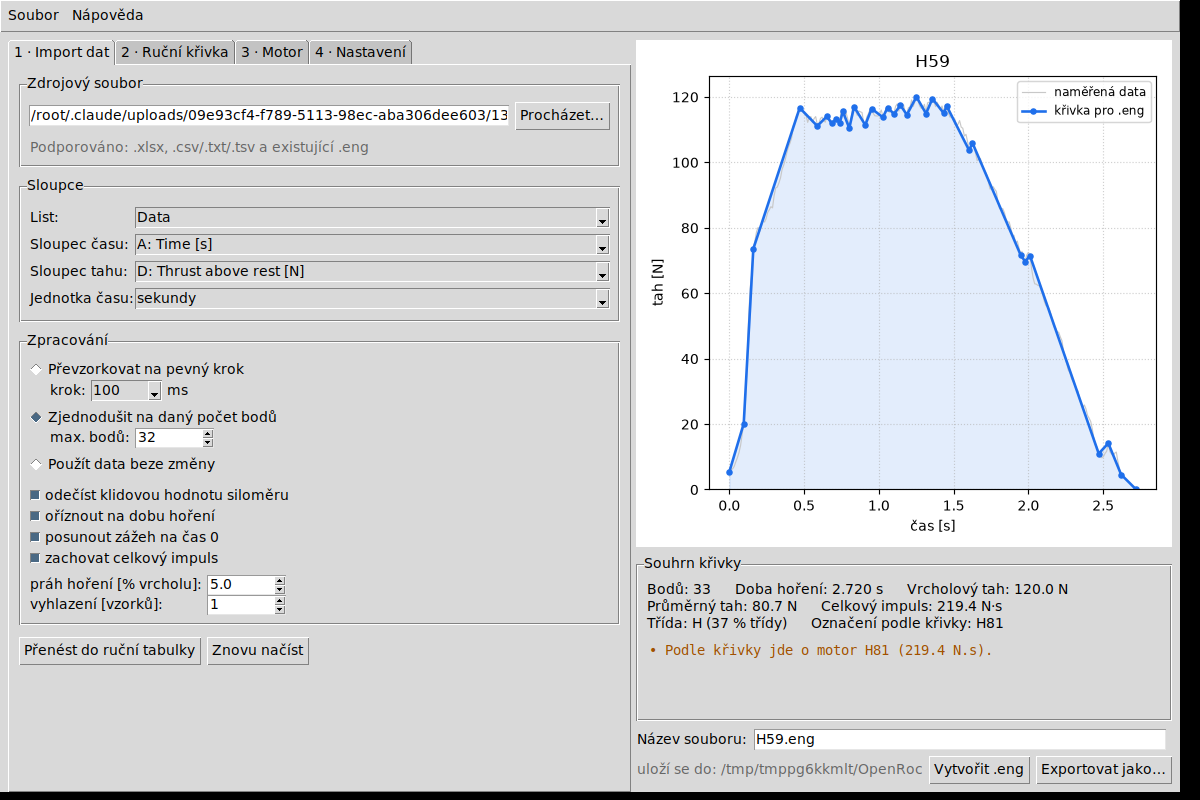
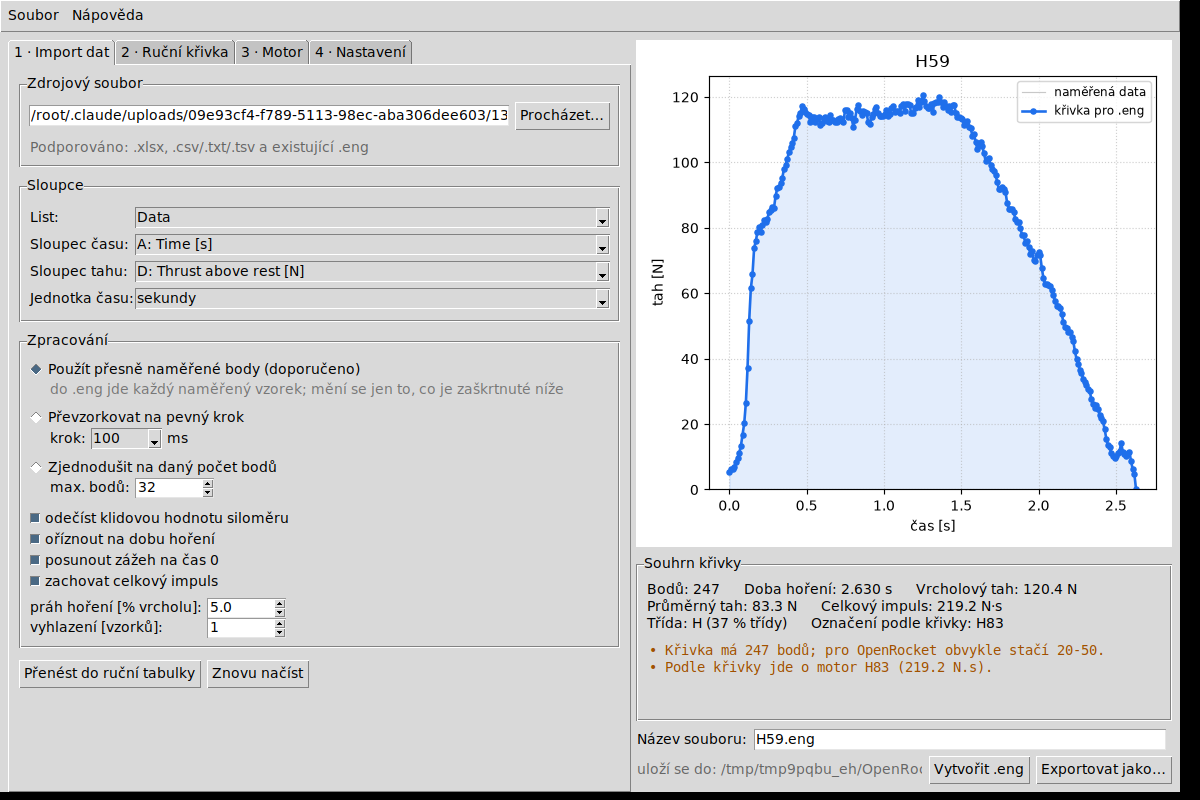
Import bere naměřené body přesně, krokování zůstává pro ruční kreslení
Výchozí režim zpracování je nyní "Použít přesně naměřené body" - do .eng jde
každý naměřený vzorek se svým časem. Převzorkování na pevný krok 100-1000 ms
a redukce počtu bodů zůstávají jako volitelné možnosti.

- koncový nulový bod u nedotčených dat navazuje vzorkovacím rozestupem,
  ne krokem převzorkování
- přenos do ruční tabulky už nepřepisuje zvolený krok mřížky
- varování o počtu bodů až od 1000 bodů, aby přesný import nehlásil problém
- test, že režim bez převzorkování zachová všechny vzorky

Claude-Session: https://claude.ai/code/session_01QgQ7U8bfPUp1pCxR3vXueB

diff --git a/engine_generator/gui.py b/engine_generator/gui.py
@@ -58,7 +58,7 @@ class App(tk.Tk):
         self.var_thrust_col = tk.StringVar()
         self.var_time_unit = tk.StringVar(value="sekundy")
 
-        self.var_mode = tk.StringVar(value="step")
+        self.var_mode = tk.StringVar(value="raw")
         self.var_step = tk.IntVar(value=int(self.cfg["step_ms"]))
         self.var_max_points = tk.IntVar(value=32)
         self.var_threshold = tk.DoubleVar(value=5.0)
@@ -190,11 +190,17 @@ class App(tk.Tk):
         body = ttk.Frame(options)
         body.pack(fill="x", padx=8, pady=8)
 
-        ttk.Radiobutton(body, text="Převzorkovat na pevný krok", value="step",
+        ttk.Radiobutton(body, text="Použít přesně naměřené body (doporučeno)", value="raw",
                         variable=self.var_mode, command=self._on_process_change).grid(
                             row=0, column=0, columnspan=2, sticky="w")
+        ttk.Label(body, text="do .eng jde každý naměřený vzorek; mění se jen to, co je zaškrtnuté níže",
+                  foreground="#777777").grid(row=1, column=0, columnspan=2, sticky="w", padx=(20, 0))
+
+        ttk.Radiobutton(body, text="Převzorkovat na pevný krok", value="step",
+                        variable=self.var_mode, command=self._on_process_change).grid(
+                            row=2, column=0, columnspan=2, sticky="w", pady=(8, 0))
         step_row = ttk.Frame(body)
-        step_row.grid(row=1, column=0, columnspan=2, sticky="w", padx=(20, 0))
+        step_row.grid(row=3, column=0, columnspan=2, sticky="w", padx=(20, 0))
         ttk.Label(step_row, text="krok:").pack(side="left")
         step_combo = ttk.Combobox(step_row, textvariable=self.var_step, width=6, state="readonly",
                                   values=curve.STEP_CHOICES_MS)
@@ -204,21 +210,17 @@ class App(tk.Tk):
 
         ttk.Radiobutton(body, text="Zjednodušit na daný počet bodů", value="reduce",
                         variable=self.var_mode, command=self._on_process_change).grid(
-                            row=2, column=0, columnspan=2, sticky="w", pady=(6, 0))
+                            row=4, column=0, columnspan=2, sticky="w", pady=(8, 0))
         points_row = ttk.Frame(body)
-        points_row.grid(row=3, column=0, columnspan=2, sticky="w", padx=(20, 0))
+        points_row.grid(row=5, column=0, columnspan=2, sticky="w", padx=(20, 0))
         ttk.Label(points_row, text="max. bodů:").pack(side="left")
         spin = ttk.Spinbox(points_row, from_=4, to=200, textvariable=self.var_max_points, width=6,
                            command=self._on_process_change)
         spin.pack(side="left", padx=4)
         spin.bind("<Return>", self._on_process_change)
 
-        ttk.Radiobutton(body, text="Použít data beze změny", value="raw",
-                        variable=self.var_mode, command=self._on_process_change).grid(
-                            row=4, column=0, columnspan=2, sticky="w", pady=(6, 0))
-
         extra = ttk.Frame(body)
-        extra.grid(row=5, column=0, columnspan=2, sticky="ew", pady=(10, 0))
+        extra.grid(row=6, column=0, columnspan=2, sticky="ew", pady=(10, 0))
         ttk.Checkbutton(extra, text="odečíst klidovou hodnotu siloměru", variable=self.var_baseline,
                         command=self._on_process_change).grid(row=0, column=0, columnspan=3, sticky="w")
         ttk.Checkbutton(extra, text="oříznout na dobu hoření", variable=self.var_trim,
@@ -526,7 +528,6 @@ class App(tk.Tk):
         if not self.points:
             messagebox.showinfo("Není co přenést", "Nejprve načtěte data.", parent=self)
             return
-        self.var_manual_step.set(int(self.var_step.get() or 100))
         self.var_manual_duration.set(round(self.points[-1][0], 3))
         self._fill_table()
         self.var_status.set("Křivka je v ruční tabulce, můžete ji upravit.")

diff --git a/engine_generator/curve.py b/engine_generator/curve.py
@@ -220,10 +220,20 @@ def process(series: Sequence[Point], options: ProcessOptions) -> List[Point]:
     if data and data[0][0] > 0:
         data.insert(0, (0.0, 0.0 if options.end_with_zero else data[0][1]))
     if options.end_with_zero and data and data[-1][1] != 0.0:
-        data.append((round(data[-1][0] + options.step_ms / 1000.0, 6), 0.0))
+        # Dohoření navazuje krokem podle režimu: u nedotčených dat vzorkovacím,
+        # u převzorkování zvoleným.
+        gap = options.step_ms / 1000.0 if options.mode == "step" else _last_gap(data)
+        data.append((round(data[-1][0] + gap, 6), 0.0))
     elif options.end_with_zero and data:
         data[-1] = (data[-1][0], 0.0)
     return [(round(t, 6), round(f, 4)) for t, f in data]
+
+
+def _last_gap(series: Sequence[Point], fallback: float = 0.01) -> float:
+    """Rozestup posledních dvou vzorků - pro doplnění koncového nulového bodu."""
+    if len(series) < 2:
+        return fallback
+    return max(series[-1][0] - series[-2][0], 1e-4)
 
 
 def _impulse(series: Sequence[Point]) -> float:

diff --git a/tests/test_core.py b/tests/test_core.py
@@ -129,6 +129,19 @@ class CurveTest(unittest.TestCase):
         self.assertLess(engfile.burn_time(points), 1.5)
         self.assertAlmostEqual(engfile.peak_thrust(points), 100.0, delta=0.1)
 
+    def test_raw_mode_keeps_every_sample(self):
+        raw = self.synthetic()
+        points = curve.process(raw, curve.ProcessOptions(mode="raw", trim_to_burn=False,
+                                                         subtract_baseline=False,
+                                                         shift_to_zero=False))
+        # Žádné převzorkování: časy odpovídají vzorkům ze zdroje.
+        source_times = [round(t, 6) for t, _ in raw]
+        for time_s, _thrust in points:
+            if time_s in source_times:
+                continue
+            self.assertGreater(time_s, source_times[-1])  # jen doplněná koncová nula
+        self.assertGreaterEqual(len(points), len(raw))
+
     def test_make_grid(self):
         grid = curve.make_grid(500, 2.0)
         self.assertEqual([t for t, _ in grid], [0.0, 0.5, 1.0, 1.5, 2.0])

diff --git a/engine_generator/engfile.py b/engine_generator/engfile.py
@@ -263,8 +263,8 @@ def validate(spec: MotorSpec, points: Sequence[Point]) -> Tuple[List[str], List[
         warnings.append("Poslední bod křivky nemá nulový tah - OpenRocket to očekává.")
     if times[0] > 0 and points[0][1] > 0:
         warnings.append("Křivka nezačíná v nule; přidejte bod (0 s; 0 N).")
-    if len(points) > 200:
-        warnings.append("Křivka má %d bodů; pro OpenRocket obvykle stačí 20-50." % len(points))
+    if len(points) > 1000:
+        warnings.append("Křivka má %d bodů; zvažte převzorkování, soubor bude velký." % len(points))
 
     impulse = total_impulse(points)
     if impulse > 0:

diff --git a/README.md b/README.md
@@ -14,10 +14,13 @@ statického testu nebo z ručně zadané tahové křivky vytvoří motorový sou
 * **Zpracování surového záznamu**: odečtení klidové hodnoty siloměru, ořez na dobu
   hoření (práh v % vrcholu, krátké špičky ze zážehové linky se ignorují), posun
   zážehu na čas 0, vyhlazení a dorovnání celkového impulsu.
-* **Převzorkování po pevných krocích** 100, 200, …, 1000 ms, nebo zjednodušení na
-  zvolený počet bodů se zachováním tvaru křivky.
-* **Ruční tvorba křivky**: zvolíte krok (100–1000 ms) a dobu hoření, vytvoří se
-  mřížka a tah v newtonech se zapisuje dvojklikem přímo do tabulky.
+* **Naměřená data se přebírají přesně** – do `.eng` jde každý vzorek se svým časem,
+  nic se nepřevzorkovává. Volitelně (druhá a třetí volba v sekci *Zpracování*) lze
+  záznam převzorkovat na pevný krok 100–1000 ms nebo zjednodušit na zvolený počet
+  bodů se zachováním tvaru křivky – například když má být soubor menší.
+* **Ruční tvorba křivky**: krokování po 100, 200, …, 1000 ms slouží právě tady –
+  zvolíte krok a dobu hoření, vytvoří se mřížka a tah v newtonech se zapisuje
+  dvojklikem přímo do tabulky.
 * **Živý graf** – při každé úpravě se překreslí; na pozadí je šedě vidět původní
   naměřený průběh.
 * **Souhrn křivky**: doba hoření, vrcholový a průměrný tah, celkový impuls, třída
@@ -53,8 +56,9 @@ zjednodušený graf a funguje dál – žádná další knihovna není potřeba.
 
 ## Postup práce
 
-1. **Import dat** – vyberte soubor, zkontrolujte sloupce a zvolte způsob
-   zpracování (pevný krok / zjednodušení / beze změny).
+1. **Import dat** – vyberte soubor a zkontrolujte sloupce. Ve výchozím nastavení
+   se použijí přesně naměřené body; převzorkování na pevný krok je jen volitelná
+   možnost.
 2. **Ruční křivka** – nebo si křivku naklikejte sami: krok, doba hoření,
    *Vytvořit mřížku* a pak dvojklikem hodnoty tahu. Tlačítko *Přenést do ruční
    tabulky* umožní doladit i importovaná data.
